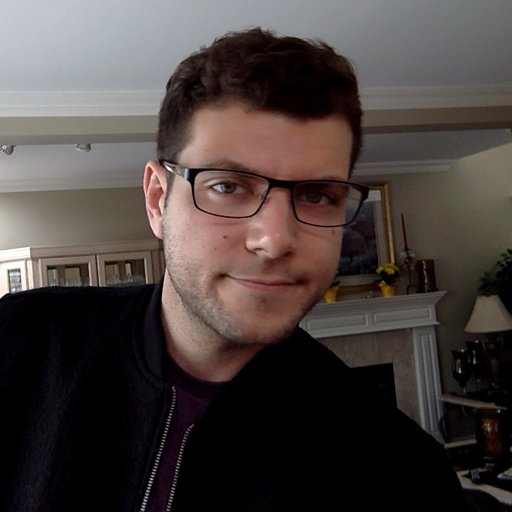
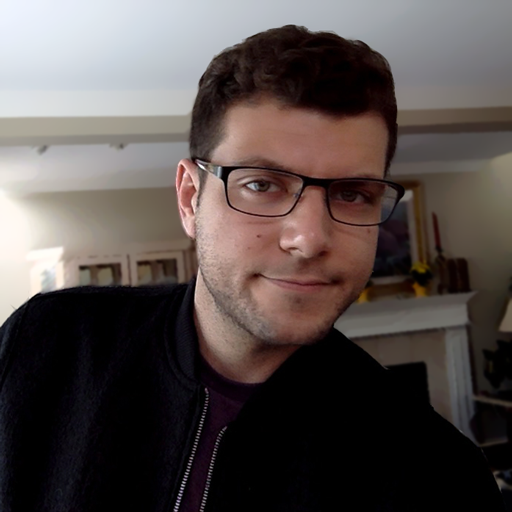
Blurred profile pic background. Changed contact us style. Fixed paragraphs in modals.

diff --git a/_includes/about.html b/_includes/about.html
@@ -10,7 +10,7 @@
             <div class="row">
                 <div class="col-lg-6">
                   <h3>Overview</h3>
-                    <p>I am a freelance web developer and software engineer with a B.Sc in computing science. I specialize in developing modern maintainable WordPress websites for businesses looking to build a stronger web presence. I have been fortunate enough to have experience in all the layers of the computing science discipline. All the way from designing web pages to programming microcontrollers. I always look forward to learning new technologies and working on new projects.</p>
+                    <p>I am a freelance web developer and software engineer with a B.Sc. in computing science. I specialize in developing modern maintainable WordPress websites for businesses looking to build a stronger web presence. I have been fortunate enough to have experience in all the layers of the computing science discipline. All the way from designing web pages to programming microcontrollers. I always look forward to learning new technologies and working on new projects.</p>
                 </div>
                 <div class="col-lg-6">
                   <h3>Technical Skills</h3>

diff --git a/_includes/contact.html b/_includes/contact.html
@@ -8,7 +8,7 @@
                 </div>
             </div>
             <div class="row">
-                <div class="col-lg-8 col-lg-offset-2">
+                <div class="col-lg-8 col-lg-offset-2 contact-content">
                     <!-- To configure the contact form email address, go to mail/contact_me.php and update the email address in the PHP file on line 19. -->
                     <!-- The form should work on most web servers, but if the form is not working you may need to configure your web server differently. -->
                     <form name="sentMessage" id="contactForm" novalidate>

diff --git a/_includes/css/main.css b/_includes/css/main.css
@@ -272,6 +272,16 @@ section.success {
     z-index: 2;
 }
 
+#contact {
+  background-color: #a9c0d2;
+}
+
+.contact-content {
+  background-color: #fff;
+  padding: 30px;
+  border-radius: 10px;
+}
+
 @media(min-width:767px) {
     #portfolio .portfolio-item {
         margin: 0 0 30px;
@@ -532,5 +542,9 @@ footer .footer-below {
     }
     .portfolio-modal .modal-content h2 {
       font-size: 2em;
+    }
+    .contact-content {
+      padding: 20px;
+      border-radius: 0px;
     }
 }

diff --git a/_includes/modals.html b/_includes/modals.html
@@ -24,7 +24,7 @@
                               </a>
                             </div>
                             <div class="col-md-8 text-left content-text">
-                              <p>{{ post.description }}</p>
+                              {{ post.description }}
                             </div>
                           </div>
                           <div class="row">

diff --git a/_includes/contact_static.html b/_includes/contact_static.html
@@ -8,7 +8,7 @@
 			</div>
 		</div>
 		<div class="row">
-			<div class="col-lg-8 col-lg-offset-2">
+			<div class="col-lg-8 col-lg-offset-2 contact-content">
 				<form  action="//formspree.io/{{ site.email }}" method="POST" name="sentMessage" id="contactForm" novalidate>
 					<div class="row control-group">
 						<div class="form-group col-xs-12 floating-label-form-group controls">
